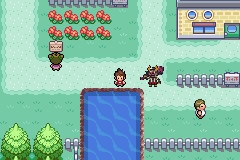
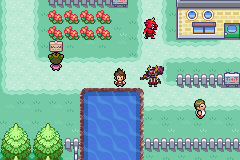
fix: cadrer Gargaros dans la capture de marche et vérifier sa visibilité

Changed region(s): [[0.5833, 0.0938, 0.6708, 0.25]]

diff --git a/tools/yokai/capturer_gargaros_marche_mgba.py b/tools/yokai/capturer_gargaros_marche_mgba.py
@@ -8,7 +8,7 @@ from PIL import Image
 from mgba_rpc import ROOT
 from mgba_new_game import new_game
 P=ROOT/'docs/gargaros-marche-20261024'/os.environ.get('GARGAROS_MODE','public');P.mkdir(parents=True,exist_ok=True)
-r=new_game();movie=[];checks=[]
+r=new_game();movie=[];checks=[];visible_positions=[]
 groups=json.loads((ROOT/'data/maps/map_groups.json').read_text());maps={n:(i,j) for i,g in enumerate(groups['group_order']) for j,n in enumerate(groups[g])}
 def spawn(gfx,local,x,y):
  i=r.call('SpawnSpecialObjectEventParameterized',gfx,8,local,x+7,y+7,3);assert i<16
@@ -17,6 +17,21 @@ def spawn(gfx,local,x,y):
 def shot(name):
  r.frame.save(P/(name+'.png'));r.frame.resize((720,480),Image.Resampling.NEAREST).save(P/(name+'-x3.png'))
 def coords(obj):return struct.unpack('<hh',r.read(obj+16,4))
+
+def capture_visible():
+ # Object coordinates alone do not prove that the actor is in the recording.
+ assert not (r.read(obj+1,1)[0]&0x60), 'Gargaros is invisible or outside the viewport'
+ x,y,x2,y2=struct.unpack('<hhhh',r.read(sprite+32,8))
+ cx,cy=struct.unpack('<bb',r.read(sprite+40,2))
+ ox=struct.unpack('<h',r.read(r.symbols['gSpriteCoordOffsetX'],2))[0]
+ oy=struct.unpack('<h',r.read(r.symbols['gSpriteCoordOffsetY'],2))[0]
+ left,top=x+x2+ox+cx,y+y2+oy+cy
+ assert 0<=left<=208 and 0<=top<=128,('Sprite clipped',left,top)
+ image=r.frame.copy()
+ reds=sum(1 for red,green,blue in image.crop((left,top,left+32,top+32)).get_flattened_data() if red>100 and green<80 and blue<100 and red>green*2)
+ assert reds>=15,('No visible red Gargaros pixels',left,top,reds)
+ visible_positions.append((left,top));movie.append(image)
+
 try:
  r.call('CreateMon',r.symbols['gPlayerParty'],1,50,31,1,12345,0,0);r.write(r.symbols['gPlayerPartyCount'],b'\1')
  g,n=maps['PalletTown'];r.call('SetWarpDestination',g,n,255,9,16);r.call('WarpIntoMap');r.call('SetMainCallback2',r.symbols['CB2_LoadMap']|1);r.run(400)
@@ -28,8 +43,8 @@ try:
  assert bank!=refbank
  assert r.read(r.symbols['gPlttBufferUnfaded']+512+32*bank,32)==r.read(r.symbols['gObjectEventPal_YokaiGargaros'],32)
  checks.append(dict(test='independent palettes and all twelve linked frames',passed=True))
- r.call('MoveObjectEventToMapCoords',obj,7,12);r.run(12)
- for _ in range(30):r.run();movie.append(r.frame.copy())
+ r.call('MoveObjectEventToMapCoords',obj,7+7,13+7);r.run(12)
+ for _ in range(30):r.run();capture_visible()
  # The rectangle consists of real one-tile walks, not animation in place.
  for label,direction,steps,delta,expected in [('droite',3,4,(1,0),{9,10,11}),('face',0,2,(0,1),{0,1,2}),('gauche',2,4,(-1,0),{6,7,8}),('dos',1,2,(0,-1),{3,4,5})]:
   seen=set()
@@ -41,14 +56,16 @@ try:
     # Initial DMA still contains the previous facing at a turn. Check the
     # new animation after its tile transfer; preserve every captured video frame.
     if t>=2:seen.update(i for i,frame in enumerate(frames) if frame==vram)
-    if t%2==0:movie.append(r.frame.copy())
+    if t%2==0:capture_visible()
     if r.read(obj,1)[0]&128:break
    else:raise AssertionError(('Walk did not finish',label,coords(obj)))
    assert coords(obj)==(before[0]+delta[0],before[1]+delta[1]),(label,before,coords(obj))
   shot(label);assert expected<=seen,(label,expected,seen)
   assert seen<=expected,(label,'wrong-facing frame',seen)
   checks.append(dict(direction=label,steps=steps,observed_frames=sorted(seen),passed=True))
- for _ in range(30):r.run();movie.append(r.frame.copy())
+ for _ in range(30):r.run();capture_visible()
+ checks.append(dict(test='Every captured frame shows Gargaros fully on screen with red sprite pixels; at least 48 native pixels of travel',frames=len(visible_positions),screen_bounds=[min(x for x,y in visible_positions),min(y for x,y in visible_positions),max(x for x,y in visible_positions),max(y for x,y in visible_positions)],passed=True))
+ assert max(x for x,y in visible_positions)-min(x for x,y in visible_positions)>=48
  # Actual captured emulator frames, encoded without interpolated movement.
  for scale,name in [(1,'marche-mgba.gif'),(3,'marche-mgba-x3.gif')]:
   pictures=movie if scale==1 else [im.resize((720,480),Image.Resampling.NEAREST) for im in movie]

diff --git a/docs/gargaros-marche-20261024/RAPPORT.md b/docs/gargaros-marche-20261024/RAPPORT.md
@@ -13,6 +13,12 @@ Les douze poses sont conservées : deux pas et un repos pour la face, le dos, la
 
 La scène à Bourg Palette utilise deux acteurs temporaires créés par le banc de démonstration. Gargaros traverse réellement les cases par les actions normales du moteur, sur un rectangle de douze pas ; les images ne sont pas collées sur une capture et la marche n'est pas une simple animation sur place. Nathan et Orqanos restent visibles pour le gabarit. Aucun fichier de sauvegarde utilisateur n'est chargé ou modifié.
 
+## Correction du cadrage
+
+Le premier GIF publié ne montrait pas Gargaros : le banc lui avait transmis des coordonnées sans le décalage interne de sept cases, puis commencé l'enregistrement alors qu'il était hors champ. Le déplacement en mémoire et les images en VRAM étaient valides ; ce contrôle ne suffisait pas à vérifier la vidéo livrée.
+
+Le placement est corrigé et le trajet tient entièrement dans la vue. Chacune des 156 captures vérifie maintenant les indicateurs de visibilité, le rectangle écran complet du sprite et la présence effective de ses pixels rouges dans le rendu. Le contrôle confirme aussi au moins 48 pixels de déplacement horizontal. Les images du GIF réencodé ont été inspectées visuellement.
+
 ## Vérification ciblée
 
 Compilation publique réussie. Dans mGBA : douze images 4bpp chargées, palettes de Gargaros et Orqanos distinctes et vérifiées, déplacement réel d'une case à chaque action, trois images observées dans chaque direction et aucune image d'une autre direction pendant son cycle. Le contrôle des tuiles commence après les deux premières images de transfert au changement de direction ; toutes les images capturées restent dans la vidéo. [Résultats et empreinte de la ROM de démonstration](public/TEST.json).
